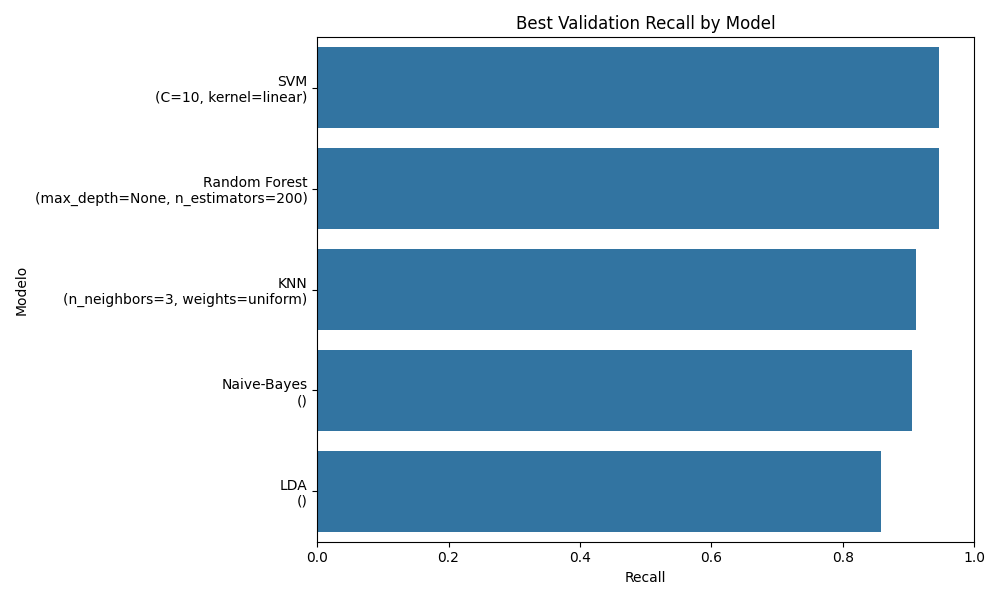
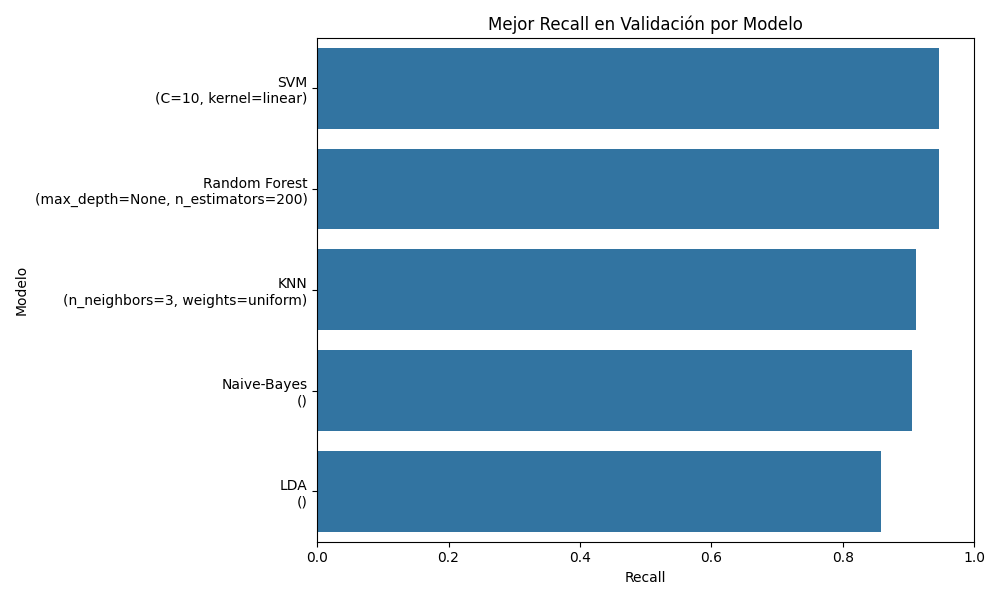
plots con mejor definicion donde importa

diff --git a/src/plots/model_comparison.py b/src/plots/model_comparison.py
@@ -28,7 +28,7 @@ def plot_best_with_params(results):
     plt.figure(figsize=(10, 6))
     sns.barplot(x="Accuracy", y="Modelo", data=df_acc)
 
-    plt.title("Best Validation Accuracy by Model")
+    plt.title("Mejor Accuracy en Validación por Modelo")
     plt.xlim(0, 1)
     plt.tight_layout()
 
@@ -41,7 +41,7 @@ def plot_best_with_params(results):
     plt.figure(figsize=(10, 6))
     sns.barplot(x="Recall", y="Modelo", data=df_rec)
 
-    plt.title("Best Validation Recall by Model")
+    plt.title("Mejor Recall en Validación por Modelo")
     plt.xlim(0, 1)
     plt.tight_layout()
 
@@ -84,8 +84,8 @@ def plot_all_combinations(results):
         legend=False,
     )
 
-    plt.title("Validation Accuracy for All Hyperparameter Combinations")
-    plt.ylim(0, 1)
+    plt.title("Accuracy en Validación para todas las combinaciones de hiperparámetros")
+    plt.ylim(0.8, 1)
     plt.xticks(rotation=30)
     plt.tight_layout()
 
@@ -103,8 +103,8 @@ def plot_all_combinations(results):
         legend=False,
     )
 
-    plt.title("Validation Recall for All Hyperparameter Combinations")
-    plt.ylim(0, 1)
+    plt.title("Recall en Validación para todas las combinaciones de hiperparámetros")
+    plt.ylim(0.8, 1)
     plt.xticks(rotation=30)
     plt.tight_layout()
 

diff --git a/src/main.py b/src/main.py
@@ -12,7 +12,6 @@ from plots.model_comparison import (
     plot_best_with_params,
     plot_all_combinations,
 )
-
 from plots.validation_curves import (
     plot_validation_curves,
 )
@@ -28,6 +27,7 @@ def main():
     plot_best_with_params(dict_results)
     plot_all_combinations(dict_results)
     plot_validation_curves(dict_results)
+    print("Fotos guardadas en results/")
 
 if __name__ == "__main__":
     main()

diff --git a/src/plots/validation_curves.py b/src/plots/validation_curves.py
@@ -75,9 +75,9 @@ def plot_validation_curves(results):
         plt.xlabel(param)
         plt.ylabel("Score")
 
-        plt.title(f"{model_name} Validation Curve")
+        plt.title(f"Curva de Validación de {model_name}")
 
-        plt.ylim(0, 1.05)
+        plt.ylim(0.8, 1.05)
 
         plt.legend()
 
